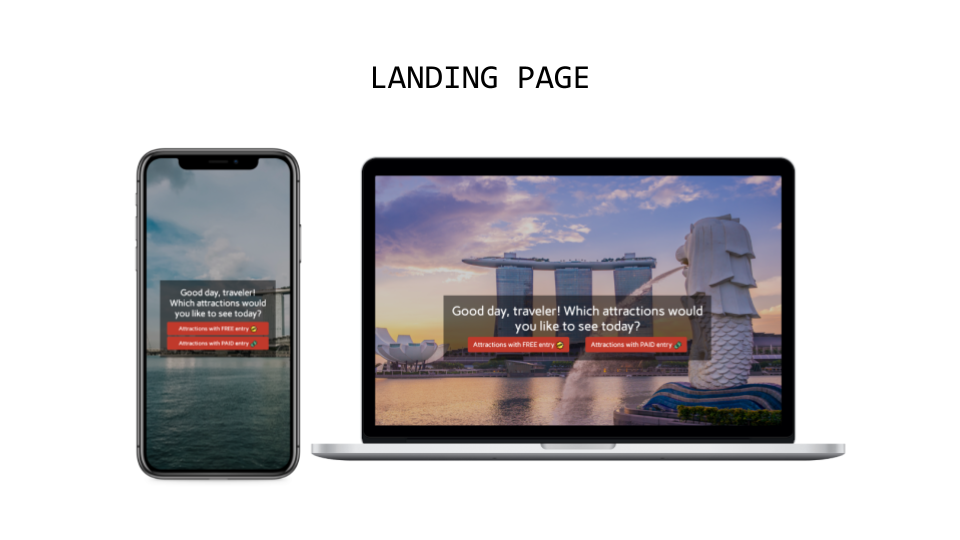
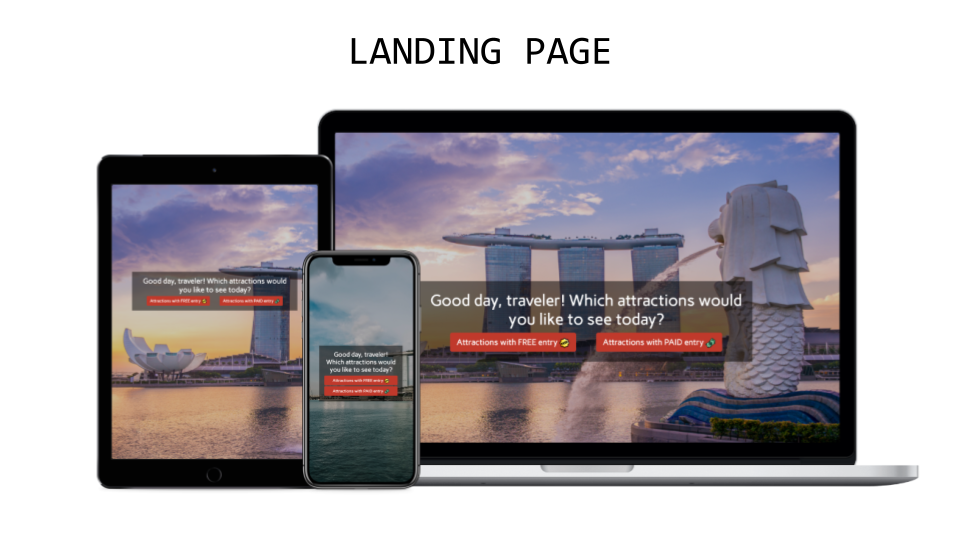
added project summary and device mockups

diff --git a/readme.md b/readme.md
@@ -1,5 +1,7 @@
 
 # SGgoWhere
+![Structure of the website](/images/read-me/landing-page.png?raw=true)
+![Structure of the website](/images/read-me/main-page.png?raw=true)
 The live demo of the website is available [here](https://sggowhere.netlify.app/).
 
 ## Project Summary
@@ -10,10 +12,16 @@ This website aims to serve as a guide for users on the different attractions ava
 * Architecture and Landmarks
 * Recreation
 
-The main target audience of this website are tourists coming to Singapore. It could also serve as a guide for fellow Singaporeans who are thinking about where to go or visit in Singapore on their next day off .
+The main target audience of this website are tourists coming to Singapore. It could also serve as a guide for fellow Singaporeans who are thinking about where to go or visit in Singapore on their next day off.
+
+### <b> Organisation's Goals </b>
+To promote Singapore's tourist attractions to both locals and tourists, not limited to just those well-known attractions such as USS and Singapore Zoo.
+
+### <b> Users' Goals </b>
+Users should be able to easily obtain the information about the available tourist attractions, including information such as the entry fee requirements.
 
 ## The Five Planes of UI/UX
-### 1. Strategy 
+### <b> 1. Strategy </b>
 #### Organisation
 * Objective: To provide information about the various attractions available in Singapore
 #### User 
@@ -40,50 +48,55 @@ As someone planning to visit outdoor attractions, I would like to know the weath
 As someone visitng an attraction, I would be concerned about the food choices nearby, as well as the bus stops and stations to plan my navigation. | <ul><li>Feature to search for nearby food places and stations etc</li> <li>Feature to show directions to aid in navigation planning</li></ul>
 
 
-### 2. Scope
-#### Functional Requirements
-#### Features
-1. <b>Layer toggle between free and paid attractions</b>
+### <b> 2. Scope </b>
+#### <b><u>Functional Requirements</b></u>
+#### <u>Features</u>
+<b> 1. Layer toggle between free and paid attractions</b>
 * Attractions separated based on whether they require an entry fee prior to entry or not
 * Navigation bar toggle allow users to toggle between attractions that have no entry fee and those that require an entry fee
 
-2. <b>Side-bar navigation</b>
+<b> 2. Side-bar navigation</b>
 * Triggered by clicking the main navigation bar icon
 * Allows for unobstructed view of the map
 * Allows for users to read the description of the different attractions
     * View more about the attraction on the map popup
     * Visit the respective websites of the attraction
 
-3. <b>Map popups</b>
+<b> 3. Map popups</b>
+
+<b> Routing </b>
 * Obtain directions to the attraction based on their current location
+
+<b> Nearby search </b>
 * Search for available amenities nearby (e.g. food, stations) within a 1km radius of the chosen attraction
     * Directions to the amenity of interest from the attraction of interest is also available
     
     <i>Note: Due to limitations, currently only driving instructions are available</i>
 
-4. <b>Weather data</b>
+<b> 4. Weather data</b>
 * 2-hourly weather data is available, triggered by clicking the weather button on the map
     * Weather data, marked by various icons, around the different areas of Singapore will be shown
     * Aims to help users plan their days/itinerary better as some places, such as parks or nature reserves may not be so fun on rainy days!
 
 
-#### Content
+#### <u>Content</u>
 * Information about the different attractions e.g. name, location, category, free entry or paid
 * Information about the weather
 
-#### Non-functional Requirements
+#### <b><u>Non-functional Requirements</b></u>
 * Mobile responsiveness 
 * Performance and loading
 
-### 3. Structure
+### <b> 3. Structure </b>
 ![Structure of the website](/images/read-me/structure.png?raw=true)
 
-### 4. Skeleton
+### <b> 4. Skeleton </b>
 An initial draft idea of the site layout has been attached.
 ![Initial wireframe of the website](/images/read-me/initial-wireframe.png?raw=true)
 
-### 5. Surface
-* The main colors used in this website are red and white, synchronus to the colors on the Singapore flag.
+### <b> 5. Surface </b>
+* The main colors used in this website are red and white, similar to the colors on the Singapore flag.
+* The shade of red was also chosen as it was similar to the markers icons, to create a standardized look.
 * The fonts used include:
     * Carme for general text
     * Fredoka One for navbar icon
@@ -101,9 +114,10 @@ Details for test cases for the website can be found [here]().
 * Javascript
 * [LeafletJS](https://leafletjs.com/) for map creation
     * [Marker Cluster](https://github.com/Leaflet/Leaflet.markercluster) for adding markers to group clusters
-    * [Leaflet Routing Machine](https://github.com/perliedman/leaflet-routing-machine)
-* [Boostrap v5.0](https://getbootstrap.com/) for general styling and design of the website
+    * [Leaflet Routing Machine](https://github.com/perliedman/leaflet-routing-machine) for getting directions
+* [Bootstrap v5.0](https://getbootstrap.com/) for general styling and design of the website
 * [MyGeoData](https://mygeodata.cloud/converter/kml-to-geojson) for conversion of KML file to Geojson
+* [Foursquare](https://developer.foursquare.com/docs) for gathering
 * [Axios](https://github.com/axios/axios) for calling API and getting data from promises
 * [Google Fonts](https://fonts.google.com/) for the fonts used
 * [Bootstrap Icons](https://icons.getbootstrap.com/) for icons
@@ -120,9 +134,15 @@ Details for test cases for the website can be found [here]().
 * KML data of attractions & weather API from [data.gov.sg](data.gov.sg);
 * API for nearby search from [Foursquare](https://developer.foursquare.com/docs);
 
+### Device mock-ups
+* Images of the website on the different device mockups was created on [shotsnapp](https://app.shotsnapp.com/)
+
+### Fonts
+* [Fontjoy](https://fontjoy.com/) for generating random fonts
+
 ### Landing Page Images
-* (Portrait photo for small-screen devices by Tiff Ng)[https://www.pexels.com/photo/marina-bay-sand-s-2434270/]
-* (Landscape photo for larger devices from Travel.Earth)[https://travel.earth/why-is-singapore-a-hard-to-beat-tourist-destination/]
+* [Portrait photo for small-screen devices by Tiff Ng](https://www.pexels.com/photo/marina-bay-sand-s-2434270/)
+* [Landscape photo for larger devices from Travel.Earth](https://travel.earth/why-is-singapore-a-hard-to-beat-tourist-destination/)
 
 ### Navbar Icon
 * <a href="https://www.flaticon.com/free-icons/tourist" title="tourist icons">Tourist icons created by Luvdat - Flaticon</a>
